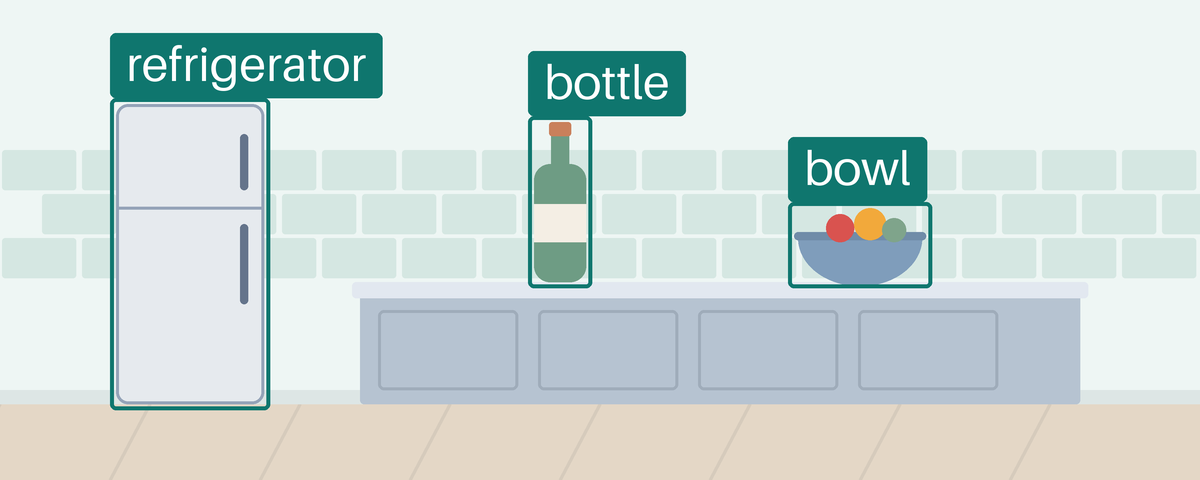
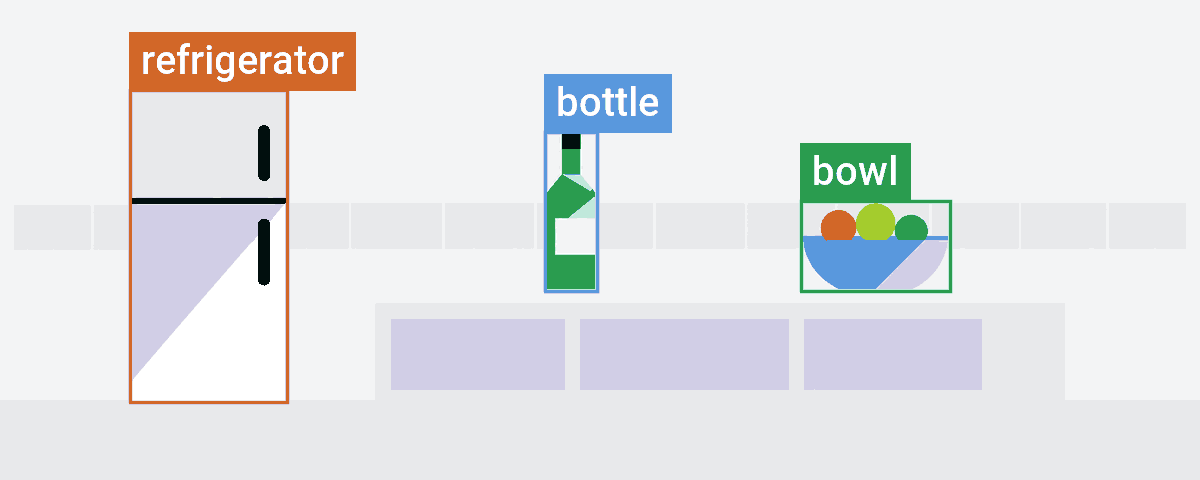
docs(models): unify hero illustrations and design guidelines

diff --git a/docs/illustration-guide.md b/docs/illustration-guide.md
@@ -1,0 +1,222 @@
+# Geometric comic illustrations
+
+Use this guide for model heroes, explainers, diagrams and comic sequences.
+Choose the detail level by the object's size and the information being shown.
+
+## Choose the style
+
+| Style | Use for | Detail | References |
+| --- | --- | --- | --- |
+| Simplified icons | Informational graphics, scenes with several objects, diagrams and sequences | Flat silhouettes with the fewest shapes needed for recognition and essential features only | [RF-DETR Nano](../models/rf_detr_nano/hero.png) |
+| Detailed illustrations | Large focal subjects, single-object heroes, close-ups and explanations of features or defects | More facets and selected facial, structural or diagnostic features; quieter unrelated areas | [ResNet-50](../models/resnet_50/hero.png) |
+
+A hero containing several small objects still uses the simplified style.
+Add detail when the subject has enough space and it helps explain something:
+a vehicle in a scene needs a simple silhouette; a close-up explaining a wheel
+or a defect needs the relevant parts.
+
+## Establish the structure
+
+- Default to a front or flat side view. Use shallow perspective only when needed
+  to explain depth or a functional part. Keep connected parts aligned, correctly
+  proportioned and consistent in perspective; preserve symmetry where the
+  object requires it.
+- Define the silhouette and key functional parts first. A laptop needs a
+  rectangular screen and a centered base; a cup needs a visible handle. Objects
+  must be identifiable without reading their labels.
+- Use the fewest shapes needed for recognition. Represent keyboards, grilles
+  and similar repeated details as one solid area in simplified icons. Add a
+  detail only when it improves recognition at thumbnail size.
+- Check the silhouette and functional geometry without labels at a thumbnail
+  size such as 300×120 before adding color facets.
+- Apply color facets within the established structure. Preserve the outer
+  contour, proportions, symmetry and functional openings. Keep rectangular
+  screens rectangular and a laptop's screen and base on a shared centerline.
+
+## Shared rules
+
+- Build broad facets from horizontal, vertical and repeated 45-degree diagonals,
+  inspired by the supplied SiMa.ai references. Allow circles, arcs and small
+  curves where anatomy or mechanical function needs them.
+- Use expressive eyes and a contrasting mouth where faces matter.
+- Use a muted natural skin tone for each person's face, ears, neck, hands and
+  other exposed skin. Keep that tone consistent across the person, with one
+  solid fill and black facial features. Put corporate accents in clothing and
+  accessories. Do not use white, teal or other brand accents as skin.
+- Use crisp, continuous boundaries and solid color regions. Remove speckles,
+  grain, stray pixels and edge halos, including artifacts introduced by palette
+  remapping. Simplification should preserve a deliberate, finished shape.
+- Pair blue/lavender/black, orange/teal/black or green/teal/lime within connected
+  planes. Use a few colors per object rather than every accent everywhere.
+- Use neutral backgrounds, generous spacing and restrained scenery. No logos,
+  wordmarks, photographic textures, lighting effects, gradients, glows or shadows.
+  Base illustrations are opaque; segmentation masks are the exception below.
+
+## Colors
+
+Use these ten brand colors for objects, clothing, backgrounds and annotations.
+Exposed human skin has the narrow exception below; do not add other colors,
+shades or tints.
+Background/text combinations follow the supplied brand table; prefer black on
+a neutral background for small copy. These are brand pairings, not a blanket
+accessibility claim.
+
+| Background | Hex | Permitted text colors |
+| --- | --- | --- |
+| Gray | `#F3F4F5` | Black, orange, blue, green |
+| Gray | `#E8E9EB` | Black, orange, blue, green |
+| White | `#FFFFFF` | Black, orange, blue, green |
+| Black | `#010F0E` | White, `#F3F4F5`, lavender, teal, lime |
+| Orange | `#D26728` | White |
+| Lavender | `#D1CEE6` | Black |
+| Blue | `#5998DD` | White |
+| Teal | `#C0E8DB` | Black |
+| Green | `#2A9C4F` | White |
+| Lime | `#A4CC2D` | Black |
+
+Use [palette.svg](assets/illustration-guide/palette.svg) for export.
+The following three skin tones are an intentional exception limited to exposed
+human skin. The brand palette remains the ten colors above; scenes without
+people use that ten-color palette.
+For this exception, choose one of `#E4B493` (light), `#BC8768`
+(medium) or `#8C624D` (deep). Use varied tones across groups of people, keeping
+each person's face and hands consistent. Use flat fills without blush,
+highlights or extra skin facets. Keep these colors out of clothing, objects,
+backgrounds, annotations and text.
+The [palette with skin tones](assets/illustration-guide/palette-with-skin.svg)
+includes this exception for scenes containing people.
+
+Translucent segmentation masks may blend a palette color with the artwork
+beneath, only within the mask region and its edge.
+A filled person mask may tint the natural skin tone with its class color,
+just as it tints the person's clothing.
+
+## Typography
+
+Use Roboto for every title, label and caption. Typeset lettering after generating the
+illustration; do not accept AI-generated lettering or a fallback font.
+
+Use Light 300 for large editorial headings, Regular 400 for body copy, Medium
+500 for labels and Bold 700 for emphasis. At 1200×480, use 40 px Medium labels
+with consistent padding; a classification result can use 40 px Bold with
+32 px Regular alternatives. Do not condense or stretch the font.
+
+Install [Roboto from Google Fonts](https://fonts.google.com/specimen/Roboto)
+if it is not available in your design tool.
+
+## Prediction overlays
+
+- Give each different class in an image a different corporate color. Repeated
+  instances keep that color across the image or sequence.
+- Choose annotation colors that contrast with the object's main illustration
+  colors, and plan this before coloring the scene. Different class colors alone
+  are insufficient if they blend into their objects. For example, use orange
+  for a green plant and green for a blue/black laptop. Use the same class color
+  for its mask, outline, box and label background; follow the text pairings above.
+- Detection boxes fit tightly around objects. Segmentation also needs a visible
+  filled mask following the silhouette, leaving the background and gaps between
+  object parts unmasked.
+- Draw boxes and labels after all base-art cleanup. Keep all four box edges
+  visible, including the bottom border where an object meets the floor.
+- Start with 35% mask opacity, adjustable within 25–40%. Keep outlines, boxes
+  and labels opaque; a 3 px outline is a useful starting point at 1200×480.
+- Use direct labels so color is not the only source of meaning. Examples must
+  not imply measured accuracy or invent confidence scores.
+
+For other explainers, use one message per graphic and one action per panel.
+Keep a consistent reading direction and clear connectors. In comparisons,
+hold the object's scale and viewpoint constant and change the relevant attribute.
+
+## Reference heroes
+
+Use the finished `models/<id>/hero.png` files as visual references.
+
+| Example | Hero | Preserve |
+| --- | --- | --- |
+| Detailed focal subject | [ResNet-50](../models/resnet_50/hero.png) | Seated cat silhouette, curled tail, expressive eyes and visible mouth |
+| Simplified objects | [RF-DETR Nano](../models/rf_detr_nano/hero.png) | Front-on rectangular laptop screen, short centered trapezoid base and one solid keyboard area |
+| Detection | [RF-DETR Small](../models/rf_detr_small/hero.png) | Simple scene, tight boxes and distinct class colors |
+| Segmentation | [YOLO26m Seg](../models/yolo26m_seg/hero.png) | Filled class masks, visible contours and unmasked gaps |
+| Pose | [YOLO26n Pose](../models/yolo26n_pose/hero.png) | Readable simplified people and clearly visible skeleton overlays |
+| Input/output explanation | [Whisper Small](../models/whisper_small/hero.png) | Clear reading direction and explicit input and output |
+
+**Simplified construction — front-on laptop**
+
+![Front-on geometric laptop with a rectangular screen, centered trapezoid base and solid keyboard area beside a cup and plant](../models/rf_detr_nano/hero.png)
+
+**Classification — detailed focal subject**
+
+![Geometric cat beside ranked classification labels](../models/resnet_50/hero.png)
+
+## Reusable prompt
+
+Attach a reference hero and choose one style instruction:
+
+- **Simplified:** a clear flat silhouette with the fewest shapes needed for
+  recognition; group repeated details such as a keyboard into one solid area.
+  Omit individual fingers, fine mechanics and fabric folds.
+- **Detailed:** a large focal subject with more geometric facets and selected
+  facial, structural or diagnostic features; emphasize the relevant part and
+  leave unrelated areas quieter.
+
+Insert that instruction into this shared template:
+
+```text
+Create [SUBJECT] for [PURPOSE] in the approved geometric comic style.
+[STYLE INSTRUCTION]
+Use [FRONT OR SIDE VIEW; SHALLOW PERSPECTIVE ONLY IF NEEDED].
+Construct [KEY PARTS AND THEIR ALIGNMENT] with recognizable proportions,
+consistent perspective and symmetry where appropriate.
+Make the silhouette and functional parts readable without labels at 300×120.
+Apply broad color facets within that structure, preserving its outline,
+proportions and functional openings. Use horizontal/vertical edges and
+repeated 45-degree diagonals for the facets. Allow circles and small curves
+where recognition needs them.
+Use crisp boundaries and flat fills, without grain, speckles or halos.
+Use #F3F4F5 #E8E9EB #FFFFFF #010F0E #D26728 #D1CEE6
+#5998DD #C0E8DB #2A9C4F #A4CC2D for clothing, objects, backgrounds,
+annotations and text, with a few colors per subject.
+Background #F3F4F5, clear margins, complete subject within frame.
+No logos, lettering, realistic materials, arbitrary microfacets, gradients,
+glows, transparency or shadows in the base illustration.
+Keep [ESSENTIAL FEATURES]. Omit [UNNECESSARY DETAILS].
+The intentional palette exception is exposed human skin: use one muted natural
+skin tone per person, #E4B493, #BC8768 or #8C624D, only on exposed skin.
+Keep each person's face and hands the same
+tone, with black hair and facial features and corporate colors for clothing.
+Prediction overlays and actual Roboto lettering will be composed separately.
+```
+
+## Export and review
+
+Preserve the model's subjects, output semantics and architecture accent in
+the base artwork. Follow the class-color rule for prediction overlays.
+
+Export model heroes as regular, metadata-stripped 1200×480 PNGs under 2 MiB at
+`models/<id>/hero.png`. Documentation and hero changes must not change compilation
+or benchmark fingerprints.
+
+Normalize opaque artwork and lettering to the palette after the final resize,
+without dithering. From the repository root:
+
+```sh
+convert docs/assets/illustration-guide/palette.svg -alpha off /tmp/hero-palette.png
+convert /path/to/composed-hero.png -alpha off \
+  +dither -remap /tmp/hero-palette.png -strip PNG8:/path/to/hero.png
+```
+
+For scenes containing people, use `palette-with-skin.svg` in that command.
+Check that the three additional colors occur only on exposed human skin.
+
+For segmentation, normalize the base first, then composite the translucent masks
+and export a metadata-stripped RGB PNG. Do not remap the blended masks afterward.
+
+Review the final PNG at 1200×480 and at a thumbnail size such as 300×120.
+Temporarily hide labels to check object recognition, then check annotation
+contrast and label readability. Check that the chosen view, proportions,
+symmetry and alignment remain consistent after adding facets. Inspect edges at
+native resolution after palette remapping and clean up any noise or broken
+contours. Passing a palette check does not establish visual quality. Also check
+geometry, facial contrast, mechanical plausibility and mask alignment. Verify
+Roboto loaded and pixels outside masks and their edges use only the approved
+colors. Run the existing hero validator.

diff --git a/AGENTS.md b/AGENTS.md
@@ -382,6 +382,11 @@ Each hero shows the model's output on an input, such as labeled boxes on a
 scene, in a scene no other model uses. Models of one architecture share a
 style and accent color, and labels use the same size on every hero.
 
+For new or refreshed artwork, follow the [illustration guide](docs/illustration-guide.md),
+the single source for the two geometric comic styles, exact palette, Roboto
+typography, prediction overlays and reusable prompts. Use existing model heroes
+as visual references.
+
 When a change alters what the model detects, its input, its outputs, or its
 components, update the README and the hero in the same change. A README- or
 hero-only edit is documentation or catalog metadata; it must not change

diff --git a/docs/adding-a-model.md b/docs/adding-a-model.md
@@ -472,6 +472,9 @@ word limits, the Building applications text, and the internal terms a README
 leaves out. The writing rules are in
 [`AGENTS.md`](https://github.com/sima-neat/models/blob/develop/AGENTS.md#model-readme-requirements).
 
+Create the hero using the [geometric comic illustration guide](illustration-guide.md),
+which includes the fixed palette, Roboto typography, reference heroes and reusable prompts.
+
 ## 12. Validate the contract
 
 ```bash
